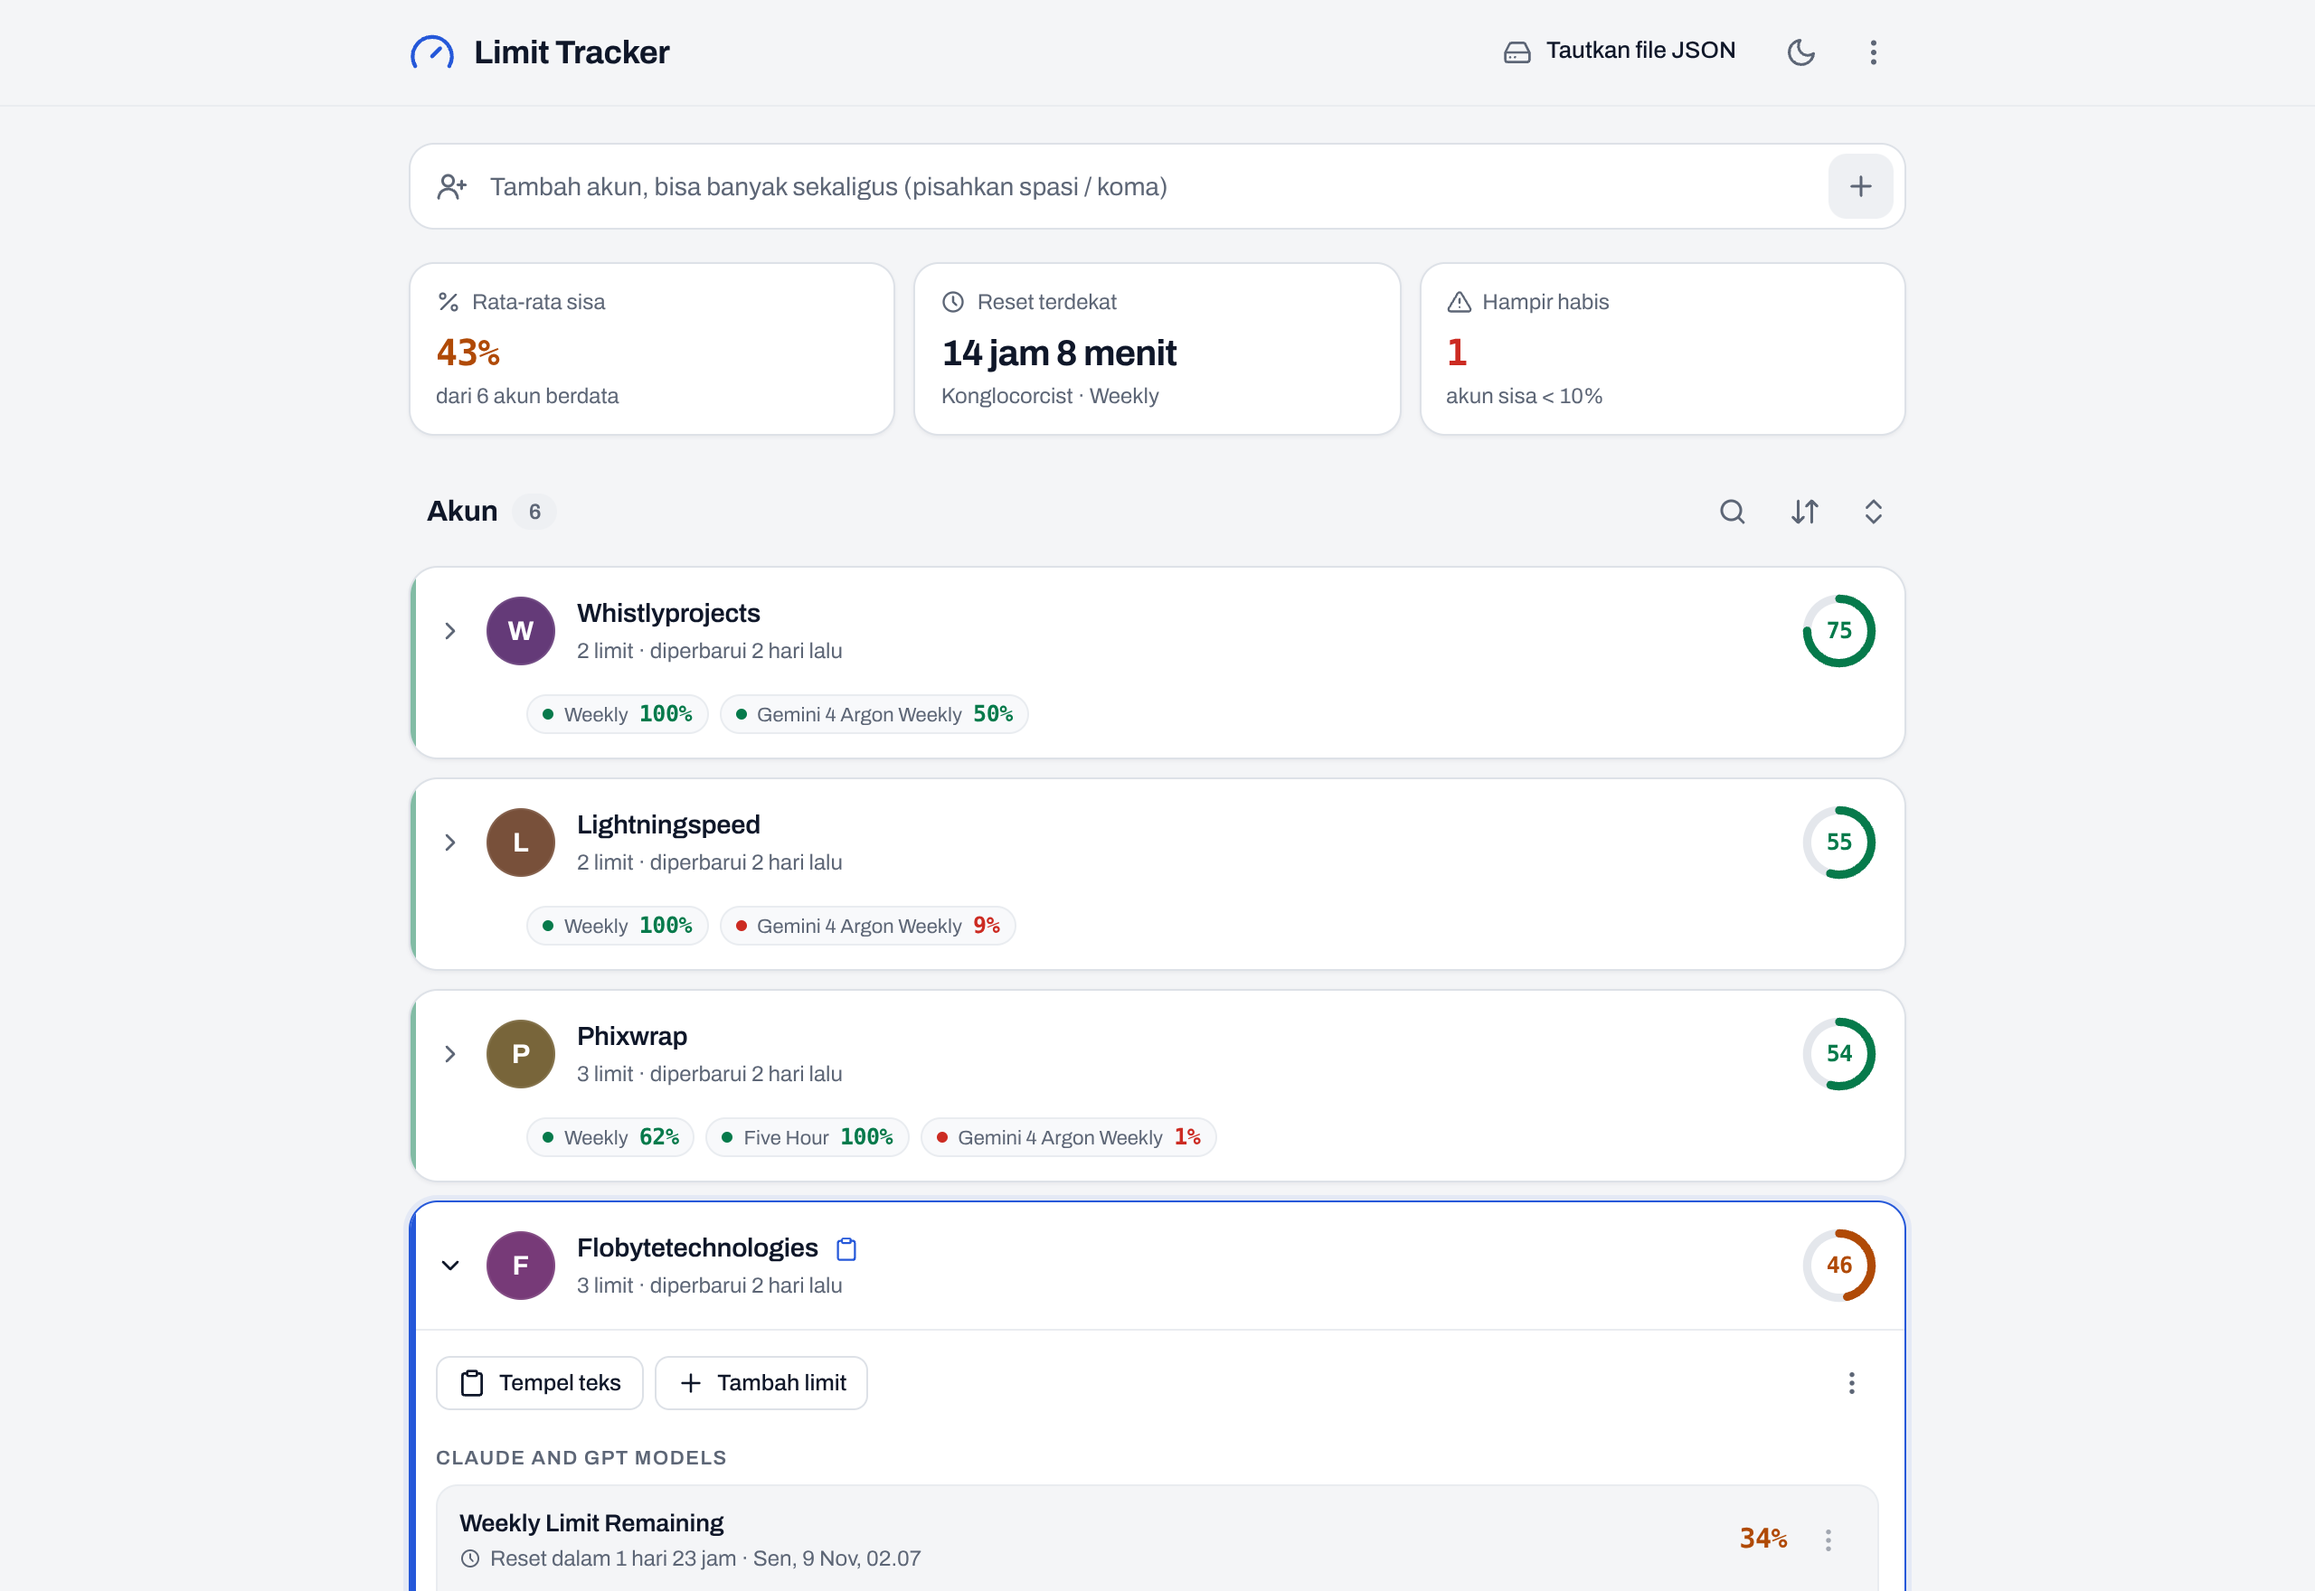
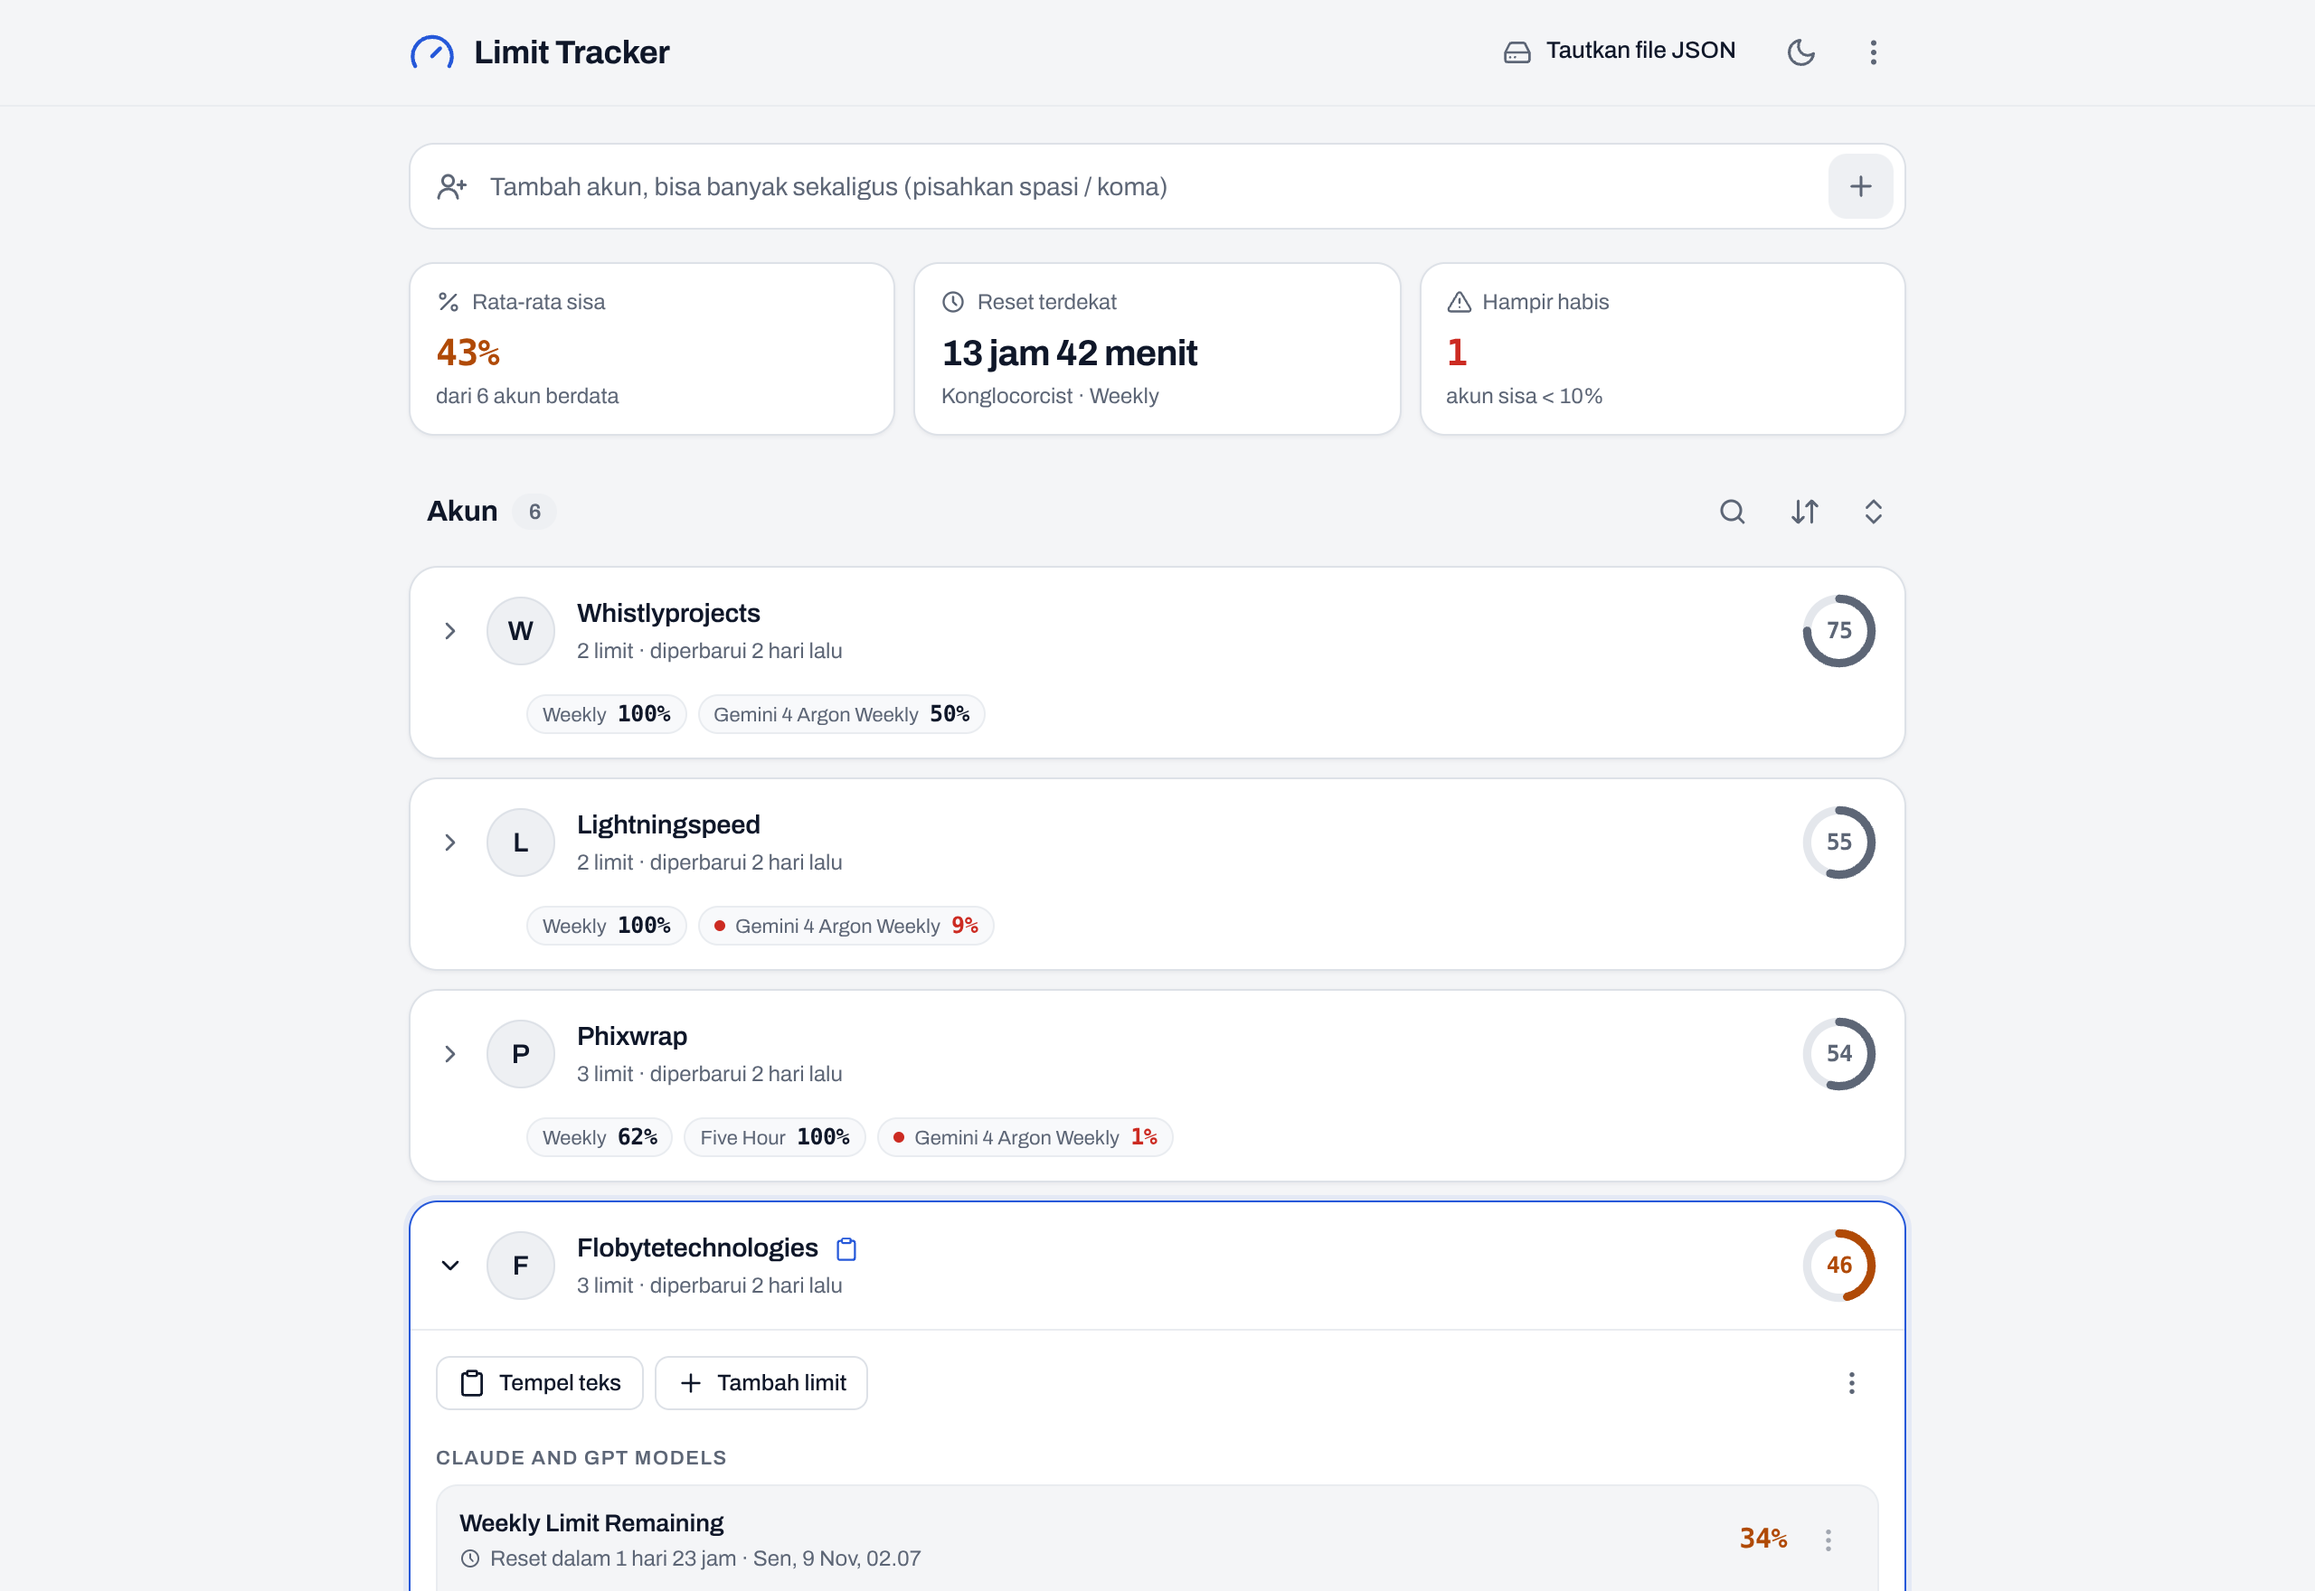
Kartu akun: kurangi warna, sisakan satu sumber
Sebelumnya satu kartu membawa 4 sistem warna sekaligus (rail, hue avatar,
ring, dot + angka chip). Sekarang aturannya satu:

  aman (< 50%)  = netral
  waspada (10-49%) = kuning
  kritis (< 10%)   = merah

- Rail kiri dihapus total (redundan dengan ring)
- Avatar jadi netral; tidak ada lagi hue acak per akun (6 varian -> 1)
- Ring netral untuk akun aman, warna hanya saat waspada/kritis
- Chip: label abu, angka terang; titik + warna hanya untuk waspada/kritis
- Bar limit: netral untuk aman, kuning/merah untuk waspada/kritis

Hasil: halaman hanya punya abu-abu + aksen kuning/merah, plus biru untuk seleksi.
Tidak menyentuh app.js, limit_tracker.html, maupun bagian di luar kartu.

diff --git a/style.css b/style.css
@@ -284,7 +284,6 @@ main { padding-bottom: 56px; }
 .list { list-style: none; margin: 0; padding: 0; display: flex; flex-direction: column; gap: 10px; }
 .card {
   position: relative;
-  --rail: var(--mut); --rail-o: .45;
   background: var(--surface);
   border: 1px solid var(--bd);
   border-radius: 16px;
@@ -292,25 +291,9 @@ main { padding-bottom: 56px; }
   box-shadow: var(--shadow-sm);
   transition: border-color .2s, background .2s, box-shadow .2s;
 }
-/* Rail status: satu sapuan mata cukup untuk tahu mana yang menipis.
-   Warnanya ikut level kartu (data), bukan dekorasi. */
-.card::before {
-  content: "";
-  position: absolute; left: 0; top: 0; bottom: 0;
-  width: 3px;
-  background: var(--rail);
-  opacity: var(--rail-o);
-  pointer-events: none;
-  transition: opacity .2s, background .2s;
-}
-.card:where(:has(.score.lv-ok)) { --rail: var(--ok); --rail-o: .5; }
-.card:where(:has(.score.lv-warn)) { --rail: var(--warn); --rail-o: .9; }
-.card:where(:has(.score.lv-bad)) { --rail: var(--bad); --rail-o: 1; }
-.card:where(:has(.score.lv-none)) { --rail: var(--mut); --rail-o: .25; }
-.card:hover { --rail-o: 1; }
 .card.enter { animation: rise .45s cubic-bezier(.2, .8, .2, 1) both; animation-delay: calc(var(--i, 0) * 45ms); }
 .card:hover { border-color: var(--bd-strong); }
-.card.sel { border-color: var(--sel); box-shadow: 0 0 0 3px var(--ac-bg); --rail: var(--sel); --rail-o: 1; }
+.card.sel { border-color: var(--sel); box-shadow: 0 0 0 3px var(--ac-bg); }
 
 .head-btn {
   width: 100%;
@@ -335,11 +318,11 @@ main { padding-bottom: 56px; }
 .avatar {
   width: 38px; height: 38px; flex: none; border-radius: 50%;
   display: inline-flex; align-items: center; justify-content: center;
-  font-weight: 700; font-size: 15px; color: #fff;
-  background: hsl(var(--h) var(--av-s) var(--av-l));
+  font-weight: 600; font-size: 15px; color: var(--tx);
+  background: var(--hover);
   text-transform: uppercase;
   letter-spacing: .01em;
-  box-shadow: inset 0 0 0 1px rgba(255, 255, 255, .09);
+  box-shadow: inset 0 0 0 1px var(--bd);
 }
 .who { flex: 1; min-width: 0; display: flex; flex-direction: column; }
 .name { font-weight: 600; font-size: 14.5px; letter-spacing: -.012em; display: flex; align-items: center; gap: 8px; min-width: 0; }
@@ -352,6 +335,9 @@ main { padding-bottom: 56px; }
 .card.sel .target { opacity: 1; color: var(--ac); }
 .meta { margin-top: 1px; font-size: 12px; color: var(--mut); white-space: nowrap; overflow: hidden; text-overflow: ellipsis; font-variant-numeric: tabular-nums; }
 
+/* Satu-satunya pembawa warna di kartu, dan hanya saat perlu ditengok:
+   aman = netral, waspada = kuning, kritis = merah. */
+.card .score.lv-ok { --c: var(--mut); }
 .score { position: relative; width: 44px; height: 44px; flex: none; color: var(--c); }
 .score svg { width: 44px; height: 44px; transform: rotate(-90deg); }
 .score .trk { stroke: var(--track); stroke-width: 4.4; }
@@ -381,8 +367,11 @@ main { padding-bottom: 56px; }
   font-size: 11px; color: var(--mut);
   white-space: nowrap;
 }
-.chip i { width: 6px; height: 6px; border-radius: 50%; background: var(--c); }
-.chip b { color: var(--c); font-weight: 700; font-size: 12.5px; font-variant-numeric: tabular-nums; letter-spacing: -.02em; }
+.chip i { display: none; width: 6px; height: 6px; border-radius: 50%; background: var(--c); }
+.chip b { color: var(--tx); font-weight: 700; font-size: 12.5px; font-variant-numeric: tabular-nums; letter-spacing: -.02em; }
+.chip.lv-warn i, .chip.lv-bad i { display: block; }
+.chip.lv-warn b { color: var(--warn); }
+.chip.lv-bad b { color: var(--bad); }
 
 /* Body */
 .body { padding: 4px 14px 16px; border-top: 1px solid var(--bd2); }
@@ -417,6 +406,8 @@ main { padding-bottom: 56px; }
 .limit-acts { display: flex; opacity: .55; transition: opacity .15s; }
 .limit:hover .limit-acts, .limit:focus-within .limit-acts { opacity: 1; }
 @media (hover: none) { .limit-acts { opacity: 1; } }
+.limit.lv-ok { --c: var(--bd-strong); }
+.limit.lv-ok .limit-pct { color: var(--tx); }
 .bar { height: 6px; margin-top: 9px; background: var(--track); border-radius: 99px; overflow: hidden; }
 .bar i { display: block; height: 100%; width: 0; border-radius: 99px; background: var(--c); transition: width .8s cubic-bezier(.2, .8, .2, 1); }
 .open .bar i { width: var(--w); }
